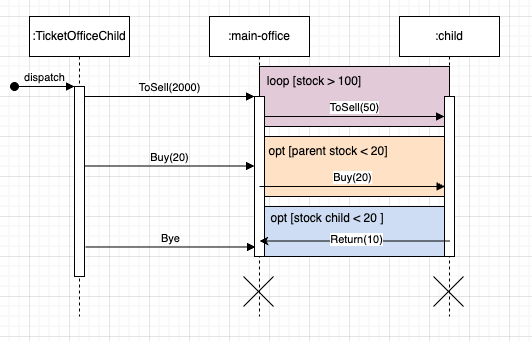
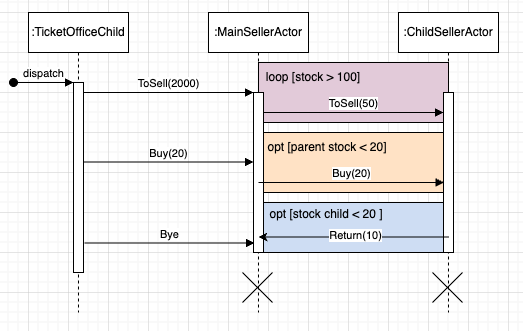
tudo clean

diff --git a/report.md b/report.md
@@ -14,21 +14,21 @@ Specifically, AI support was engaged for the following purposes:
 
 ## 1.1. Simple CCS Model (with deadlock)
 
-The system is modeled as a composition of four concurrent processes $TransferDeadlock = (P1|P2|C1|C2)\L$, where $L$ is the restriction set ${lockA, lockB, unlockA, unlockB}$, that hides the internal locking actions. The processes $P1$ and $P2$ represent the two participants in the transaction, while $C1$ and $C2$ are auxiliary processes that model the locks for their respective accounts, i.e., control access to the critical section.
+The system is modeled as a composition of four concurrent processes `TransferDeadlock = (P1|P2|C1|C2) \ L`, where $L$ is the restriction set `{lockA, lockB, unlockA, unlockB}`, that hides the internal locking actions. The processes $P1$ and $P2$ represent the two participants in the transaction, while $C1$ and $C2$ are auxiliary processes that model the locks for their respective accounts, i.e., control access to the critical section.
 
-In this model, mutual exclusion is enforced via syncronization over complementary ($?$ and $!$) actions. When $P1$ executes $lockA!$, it must synchronize with $C1$'s complementary $lockA?$ action, which represents the acquisition of the lock for account A. The same applies for $P2$ and $C2$ with lockB.
+In this model, mutual exclusion is enforced via syncronization over complementary ($?$ and $!$) actions. When $P1$ executes `lockA!`, it must synchronize with $C1$'s complementary `lockA?` action, which represents the acquisition of the lock for account A. The same applies for $P2$ and $C2$ with lockB.
 
 When process P1 intends to transfer money to P2, it executes the following sequence of actions:
 1. Acquires the lock for its own account (For P1, lockA; for P2, lockB), ensuring exclusive access.
 2. Tries to acquire the lock for the destination account (For P1, lockB; for P2, lockA)
-3. If the locks are acquired, the transaction is processed and the atomic action send€ is emitted, indicating that the transfer is completed.
-4. Finally, the resources are released, in the reverse order of their acquisition (For P1-P2, unlockB-unlockA; for P2-P1, unlockA-unlockB)
+3. If the locks are acquired, the transaction is processed and the atomic action `send€` is emitted, indicating that the transfer is completed.
+4. Finally, the resources are released, in the reverse order of their acquisition (For P1-P2, `unlockB`-`unlockA`; for P2-P1, `unlockA`-`unlockB`)
 
 This naive implementation leads to a circular wait condition, resulting in a deadlock:
-1. P1 acquires lockA, by executing lockA! and synchronizing with C1's lockA?
-2.  The scheduler switches to P2, which acquires lockB by executing lockB! and synchronizing with C2's lockB?
-3. P1 attempts to acquire lockB, but is blocked because P2 holds it
-4. P2 attempts to acquire lockA, but is blocked because P1 holds it
+1. P1 acquires lockA, by executing `lockA!` and synchronizing with C1's `lockA?`
+2.  The scheduler switches to P2, which acquires lockB by executing `lockB!` and synchronizing with C2's `lockB?`
+3. P1 attempts to acquire `lockB`, but is blocked because P2 holds it
+4. P2 attempts to acquire `lockA`, but is blocked because P1 holds it
 
 
 ![LTS](/exercise1/lts1_1.png)
@@ -38,7 +38,7 @@ This naive implementation leads to a circular wait condition, resulting in a dea
 
 ## 1.2. Deadlock fix
 
-To fix the deadlock condition on exercise 1.1., the resource acquisition protocol was modified. To fix the circular wait of the previous model, a strict ordering for lock acquisition was established. Now, both processes must acquire the shared resources in the exact same sequential order (lockA then lockB), regardless of the transfer's direction. Consequently, if $P1$ acquires $C1$, $P2$ must wait until $P1$ releases $C1$ before it can acquire it, even if $P2$ is trying to transfer to $P1$.
+To fix the deadlock condition on exercise 1.1., the resource acquisition protocol was modified. To fix the circular wait of the previous model, a strict ordering for lock acquisition was established. Now, both processes must acquire the shared resources in the exact same sequential order (`lockA` then `lockB`), regardless of the transfer's direction. Consequently, if $P1$ acquires $C1$, $P2$ must wait until $P1$ releases $C1$ before it can acquire it, even if $P2$ is trying to transfer to $P1$.
 
 From here, the circular dependency is eliminated, while maintaining the mutual exclusion. If a process initiates a transfer and acquires the first lock in the hierarcy, any parallel process attempting a transfer will be blocked at the beginning of the cycle, not holding any resources. 
 
@@ -80,11 +80,11 @@ Because the system must allow for deadlocks, each transfer sequence strictly fol
 
 To define the generalized model for the three-participant scenario, where three participants can transfer money to one another without restrictions, the system uses value-passing CCS.
 
-The parameterized process `Person[x,cmd]` acts as a template for any participant. It uses the parameters $x$, that represents the ID of the sender (1,2 or 3), and $cmd$, the channel through which the process receives transfer instructions. The process listens on its command channel ($cmd?y$) to receive the ID of thr target recipient $y$. To execute the transfer, it uses the naive sequential locking strategy already defined: it first requests its own accounts lock ($lock!x) and then requests the recipient's lock ($lock!y$). Once both resources are acquired, it executes the $send$ action, and subsequently releases both locks before returning to its initial state.
+The parameterized process `Person[x,cmd]` acts as a template for any participant. It uses the parameters $x$, that represents the ID of the sender (1,2 or 3), and $cmd$, the channel through which the process receives transfer instructions. The process listens on its command channel ($cmd?y$) to receive the ID of thr target recipient $y$. To execute the transfer, it uses the naive sequential locking strategy already defined: it first requests its own accounts lock (`lock!x`) and then requests the recipient's lock (`lock!y`). Once both resources are acquired, it executes the $send$ action, and subsequently releases both locks before returning to its initial state.
 
 The component `Utilizador` is responsible for driving the system by generating concurrent transfer requests. It uses the choice operator (+) to map a fully connected graph, defining all six possible permutations between the three participants. The recursion forces the participants to compete for locks.
 
-`GestorContas[c1,c2,c3]` is a centralized state machine, where parameters $c1$, $c2$ and $c3$ act as boolean flags tracking the status of each account's lock, where $0$ indicates an available state and $1$ indicates a locked state. The "manager" listens for incoming lock and unlock requests. It evaluates boolean conditions using $when()$ guards. Upon a successful lock, the process recurses with the corresponding parameter updated to $1$ (`GestorContas[1, c2, c3]`).
+`GestorContas[c1,c2,c3]` is a centralized state machine, where parameters $c1$, $c2$ and $c3$ act as boolean flags tracking the status of each account's lock, where $0$ indicates an available state and $1$ indicates a locked state. The "manager" listens for incoming lock and unlock requests. It evaluates boolean conditions using `when()` guards. Upon a successful lock, the process recurses with the corresponding parameter updated to $1$ (`GestorContas[1, c2, c3]`).
 
 The entire parallel architecture is defined by Sistema in exercises 1.1/1,2/1,3 and 1.4. It uses parallelization ($|$), instantiating three unique Person processes, with IDs 1,2, and 3, the Utilizador process and the `GestorContas` initialized with all accounts unlocked (0,0,0). It uses a restriction set with all actions except $send$.
 
@@ -158,7 +158,7 @@ With `StressTest.scala` simulating 50 concurrent requests to `/run-simulation`:
 6. Thread Y also writes at index 10
 7. Result: One message is overwritten and disappears; the final queue contains fewer than 50 entries
 
-### 2.2.3. Solution: ConcorrentLinkedQueue
+### 2.2.3. Solution: ConcurrentLinkedQueue
 
 ConcurrentLinkedQueue[String]()
 
@@ -269,55 +269,55 @@ This scenario is a pure visibility problem: one thread writes `paused = false`, 
 The script `tickets1.scala` implements a concurrency model using a single actor (main-office) to manage a shared resource (ticket stock).
 
 ### 3.1.1. State Management
-To manage states, the actor uses the Akka primitive $context.become(selling(new\_stock))$ to transition its behaviour to a new state with the updated inventory parameter, instead of using variables ($var$).
+To manage states, the actor uses the Akka primitive `context.become(selling(new_stock))` to transition its behaviour to a new state with the updated inventory parameter, instead of using variables (`var`).
 
 ### 3.1.2. Message Processing
-- `ToSell(m)`: When the actor receives this message, he calculates the new stock ($n+m$) and transitions to the new state, adding tickets to the available stock.
-- `Buy(m)`: The actor eveluates the condition $n>=m$. If true, the transaction is processed, and the state is updated to $n-m$. If false, the transaction is rejected and an error is logged to the system console. This happens because $n$ can't be less than 0 - it's physically impossible.
-- `Bye`: This termination class triggers the $context.stop(self)$ instruction, terminating the actor's lifecycle and freeing memory.
+- `ToSell(m)`: When the actor receives this message, he calculates the new stock (`n+m`) and transitions to the new state, adding tickets to the available stock.
+- `Buy(m)`: The actor evaluates the condition `n>=m`. If true, the transaction is processed, and the state is updated to `n-m`. If false, the transaction is rejected and an error is logged to the system console. This happens because `n` can't be less than 0 - it's physically impossible.
+- `Bye`: This termination class triggers the `context.stop(self)` instruction, terminating the actor's lifecycle and freeing memory.
 
 ## 3.2. Child Actor Architecture 
 
 The script `tickets2.scala` uses a more advanced architecture: it transitions to a parent-child hierarchy with automated delegation and uses a rejection system for when the child actor does not have enough stock to process a request. It also uses two classes, one for the Main Seller (Parent) and another for the Child Sellers, to better separate the logic of each type of actor.
 
 ### 3.2.1. Inventory Delegation (`excessStock` function)
-When the main-office receives a large batch of tickets, it evaluates a threshold condition ($while(stock > 100)$). If the inventory exceeds 100 units, the parent actor instantiates new child actors ($context.actorOf(...)$). It then delegates batches of 50 tickets to each child via the `ToSell(50)` message, distributing the operational load. It also updates the list of active children to keep track of the current child actors. This dynamic scaling mechanism allows the system to handle large inventories efficiently, while maintaining a manageable workload for each actor. This function is only defined in the parent class, as the children are only responsible for processing delegated requests, not for managing inventory or creating new actors.
+When the main-office receives a large batch of tickets, it evaluates a threshold condition (`while(stock > 100)`). If the inventory exceeds 100 units, the parent actor instantiates new child actors (`context.actorOf(...)`). It then delegates batches of 50 tickets to each child via the `ToSell(50)` message, distributing the operational load. It also updates the list of active children to keep track of the current child actors. This dynamic scaling mechanism allows the system to handle large inventories efficiently, while maintaining a manageable workload for each actor. This function is only defined in the parent class, as the children are only responsible for processing delegated requests, not for managing inventory or creating new actors.
 
 ### 3.2.2. Selling function
 This function manages the selling system `ToSell(m)`, `Buy(m)`, `Return(m)` and `Bye`. 
 
-The `ToSell(m)` case creates a tuple by calling the `excessStock(stock, children)` function, which returns the new stock and the list of children. The parent actor then updates its state with the new stock and children list ($context.become(selling(newStock, newChildren))$). For the child actor class, the `ToSell(m)` case simply updates the local stock ($context.become(selling(stock+m))$), as they don't have the authority to create new actors or delegate inventory.
+The `ToSell(m)` case creates a tuple by calling the `excessStock(stock, children)` function, which returns the new stock and the list of children. The parent actor then updates its state with the new stock and children list (`context.become(selling(newStock, newChildren))`). For the child actor class, the `ToSell(m)` case simply updates the local stock (`context.become(selling(stock+m))`), as they don't have the authority to create new actors or delegate inventory.
 
 The `Buy(m)` case is defined in both classes, but with different logic. The parent actor first checks if it can process the request locally. If not, it checks for available children and forwards the request to one of them. The child actor, on the other hand, only checks its local stock and processes the request if it has enough inventory. If it doesn't have enough stock, it sends a `Return(n)` message back to the parent and terminates itself.
 
 The `Return(n)` case, in the parent actor, calls `excessStock` to update its state with the new stock and children list, as it may need to create new child actors if the returned stock exceeds the threshold. In the child actor, this case is not defined.
 
-The `Bye` case is defined in both classes, and it simply terminates the actor's lifecycle using $context.stop(self)$.
+The `Bye` case is defined in both classes, and it simply terminates the actor's lifecycle using `context.stop(self)`.
 
-The auxiliary function `rejection` is defined in the child actor class. When a child actor receives a `Buy(m)`message that cannot be processed due to insufficient stock, it forwards the message to the parent actor. In the case that the message is not a `Buy(m)` message, the child actor terminates itself. 
+The auxiliary function `rejection` is defined in the child actor class. While in the rejection state, the child continues to forward incoming `Buy(m)`requests back to the parent. It only terminates its lifecycle when it receives a formal acknowledgement message (AcknowledgeDeath) from the parent, confirming that the return process is complete and the child can safely shut down.
 
-Both programs use an interative input testing, where the user can input the initial stock, tickets to buy and number of requests. The system will process the requests and print the final stock after all transactions are completed. The `Bye` message is sent at the end of the testing routine to terminate the main-office actor.
+Both programs use an interactive input testing, where the user can input the initial stock, tickets to buy and number of requests. The system will process the requests and print the final stock after all transactions are completed. The `Bye` message is sent at the end of the testing routine to terminate the main-office actor.
 
 
-### 3.2.4. Diagrams
+### 3.2.3. Diagrams
 The hierarchy diagram represents the supervision tree generated by the Akka ActorSystem: 
 
 ![Hierarchy Diagram](/figures/hierarchyDiagram.png)
 
-At the top level, the $TicketSys$ represents the broad ActorSystem environment. It divides into the default internal guardians: the $System$ guardian, that manages logging and processes), and the $User$ guardian, the parent of all user-created actors.
+At the top level, the `TicketSys` represents the broad ActorSystem environment. It divides into the default internal guardians: the `System` guardian, that manages logging and processes), and the `User` guardian, the parent of all user-created actors.
 
-The main-office, instantiated as a $SellerActor$, operates directly under the $User$ guardian. It serves as the primary entry point for all client requests.
+The main-office, instantiated as a `SellerActor`, operates directly under the `User` guardian. It serves as the primary entry point for all client requests.
 
-The bottom layer demonstrates the dynamic scaling capability of the system. Controlled by the conditional guard $stock > 100$, the main-office instantiates multiple anonymous child actors (internally named $\$a, \$b, ..., \$n$ by Akka), delegating a fixed quota of 50 tickets to each. 
+The bottom layer demonstrates the dynamic scaling capability of the system. Controlled by the conditional guard `stock > 100`, the main-office instantiates multiple anonymous child actors (internally named $\$a, \$b, ..., \$n$ by Akka), delegating a fixed quota of 50 tickets to each. 
 
 The sequence diagram models the asynchronous message-passing protocol and the lifecycle management of the actors:
 
 ![Sequence Diagram](/figures/sequenceDiagram.png)
 
-The purple fragment labeled $loop [stock > 100]$ encapsulates the iterative instantiation and delegation phase. Upon receiving the initial `ToSell(n)` message, the main-office continuously creates child actors and sends them `ToSell(50)` messages until the threshold condition is false.
+The purple fragment labeled `loop [stock > 100]$ encapsulates the iterative instantiation and delegation phase. Upon receiving the initial `ToSell(n)` message, the main-office continuously creates child actors and sends them `ToSell(50)` messages until the threshold condition is false.
 
-The orange fragment ($ opt [parent stock \le m]$) demonstrates the load-balancing logic. An external $Buy(m)$ request is only forwarded to a child node if the parent actor lacks sufficient local inventory to process the transaction.
+The orange fragment (`opt [parent stock \le m]`) demonstrates the load-balancing logic. An external `Buy(m)` request is only forwarded to a child node if the parent actor lacks sufficient local inventory to process the transaction.
 
-The blue fragment ($opt [stock child \le m]$) demonstrates the failure recovery mechanism. If a delegated child cannot fullfilll a forwarded request, it returns its residual stock ($Return(10)$) upstream.
+The blue fragment (`opt [stock child \le m]`) demonstrates the failure recovery mechanism. If a delegated child cannot fulfill a forwarded request, it returns its residual stock (`Return(10)`) upstream.
 
-The diagram accurately represents actor termination using "X" markers at the bottom of the lifelines. The child actor terminates itself immediately after returning stock, while the main-office terminates upon receiving the $Bye$ message from the testing routine.
+The diagram accurately represents actor termination using "X" markers at the bottom of the lifelines. The child actor terminates itself immediately after returning stock, while the main-office terminates upon receiving the `Bye` message from the testing routine.
